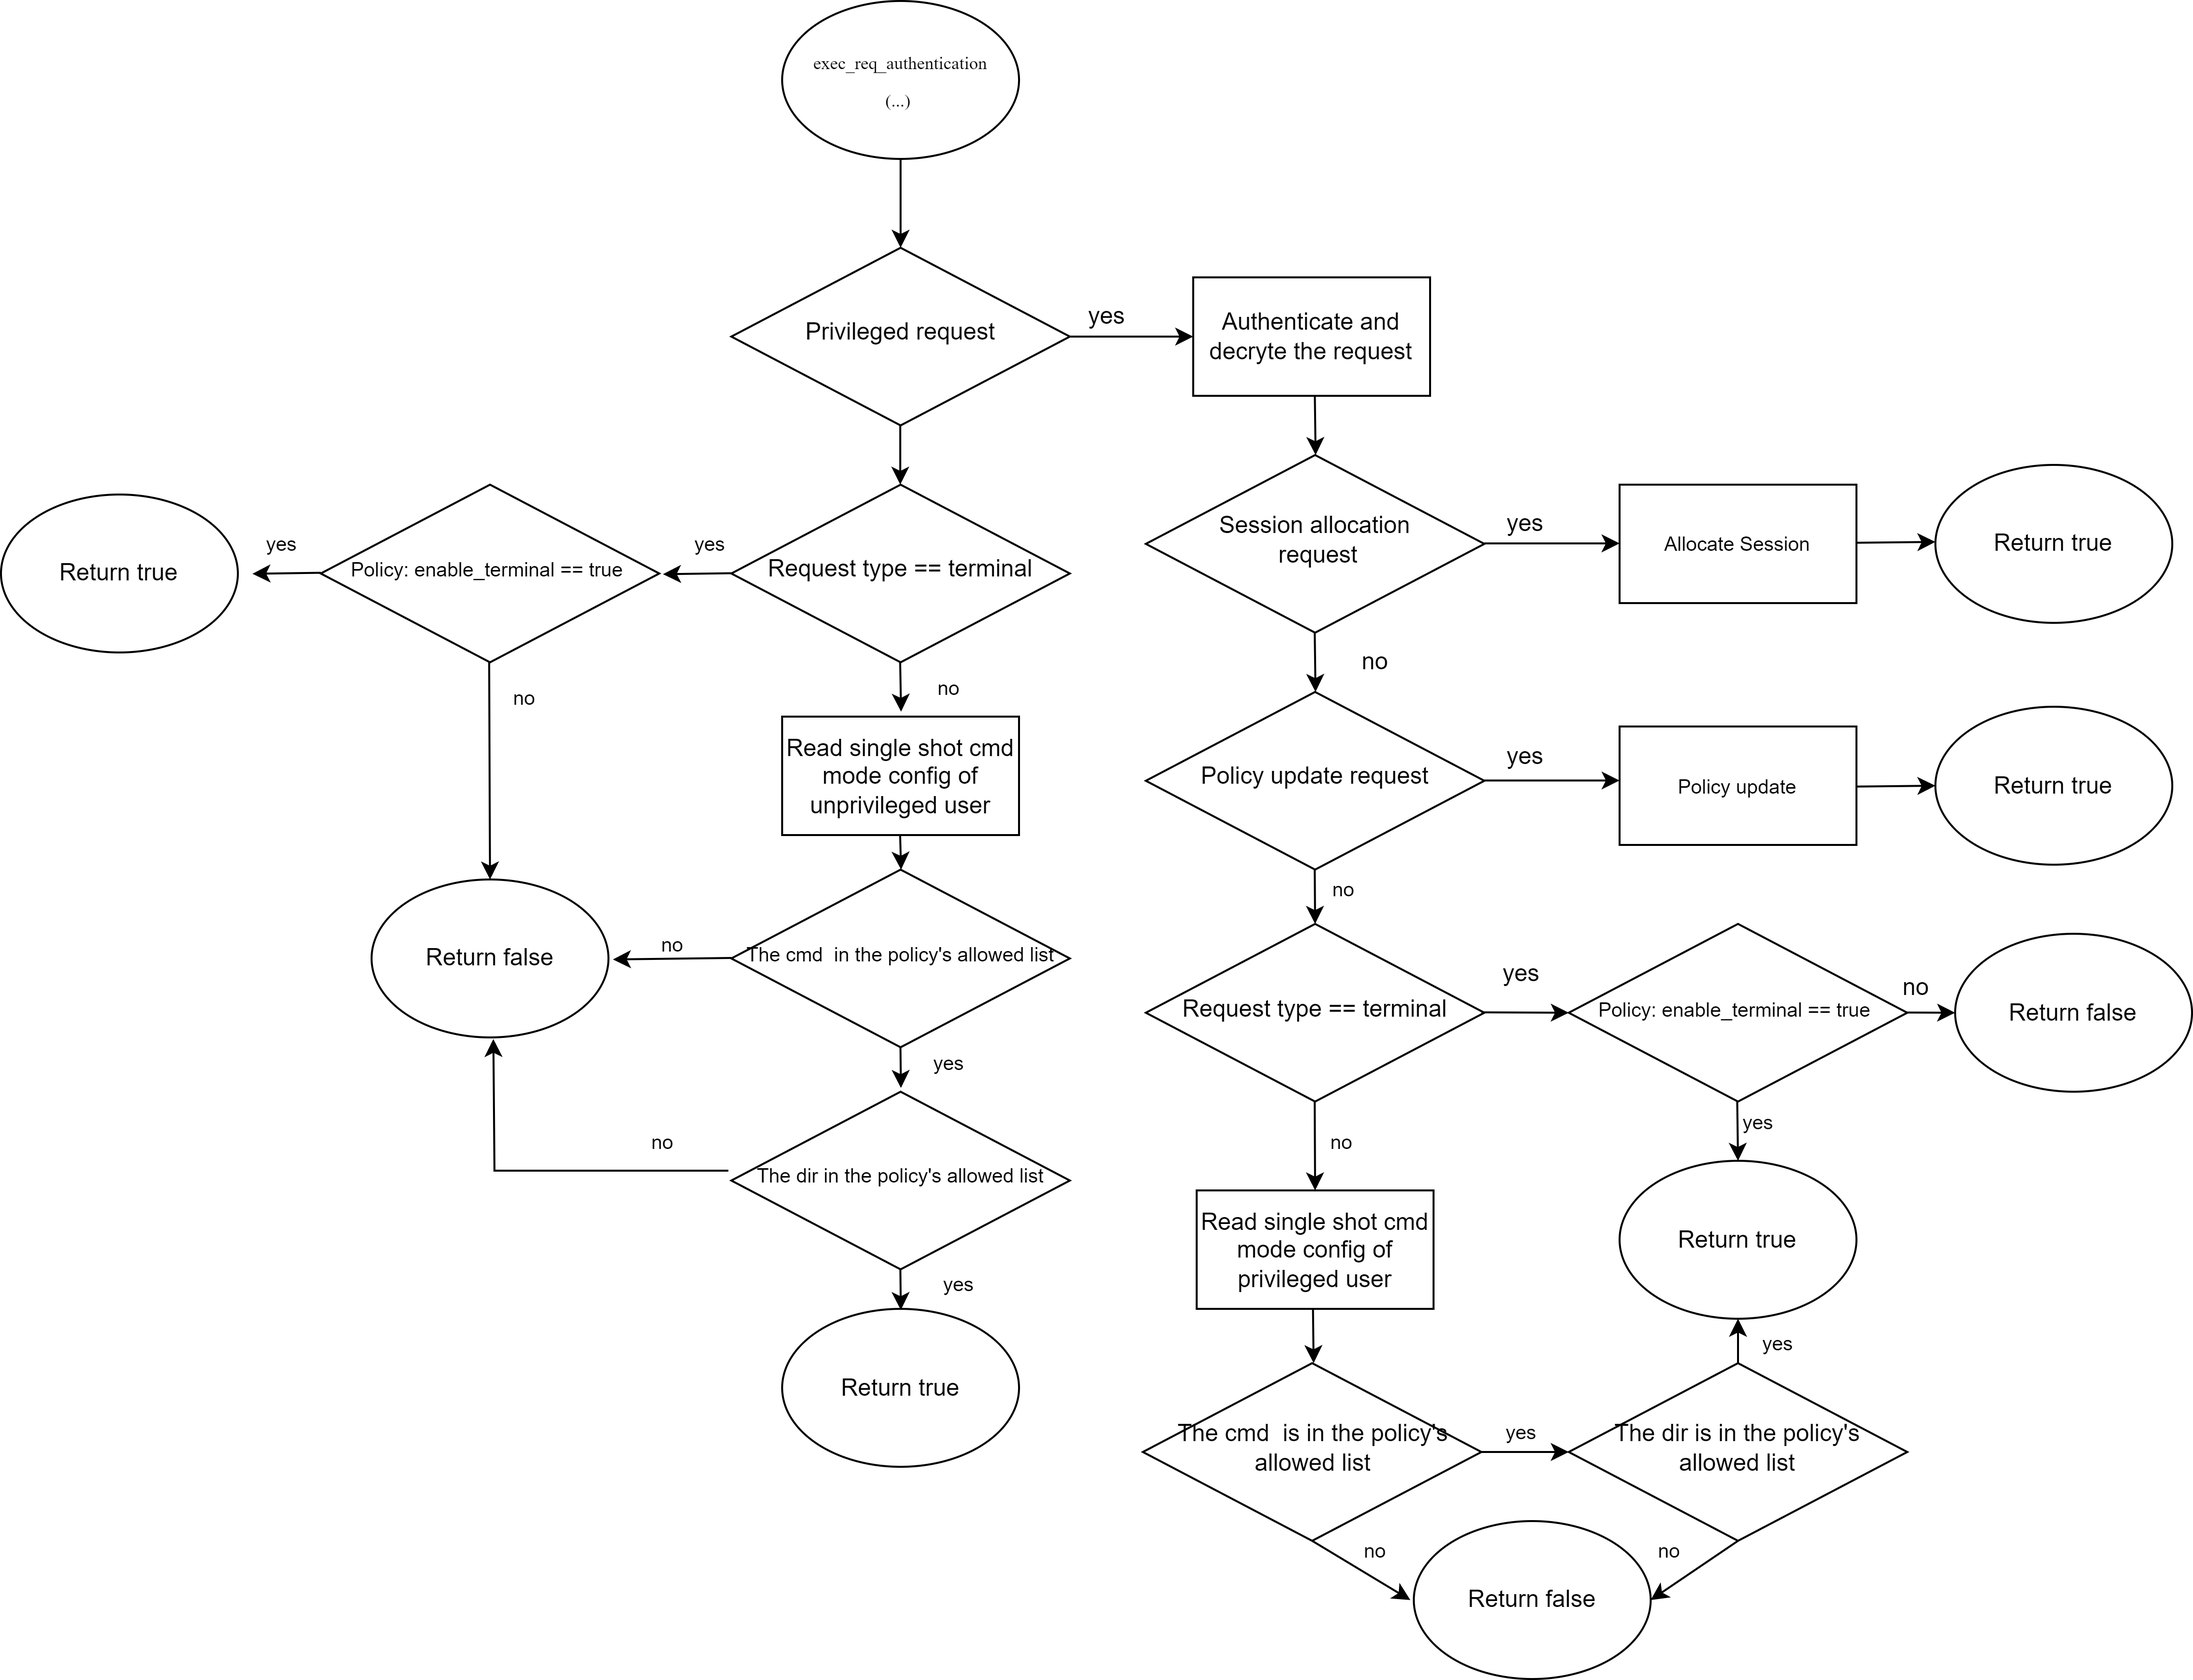
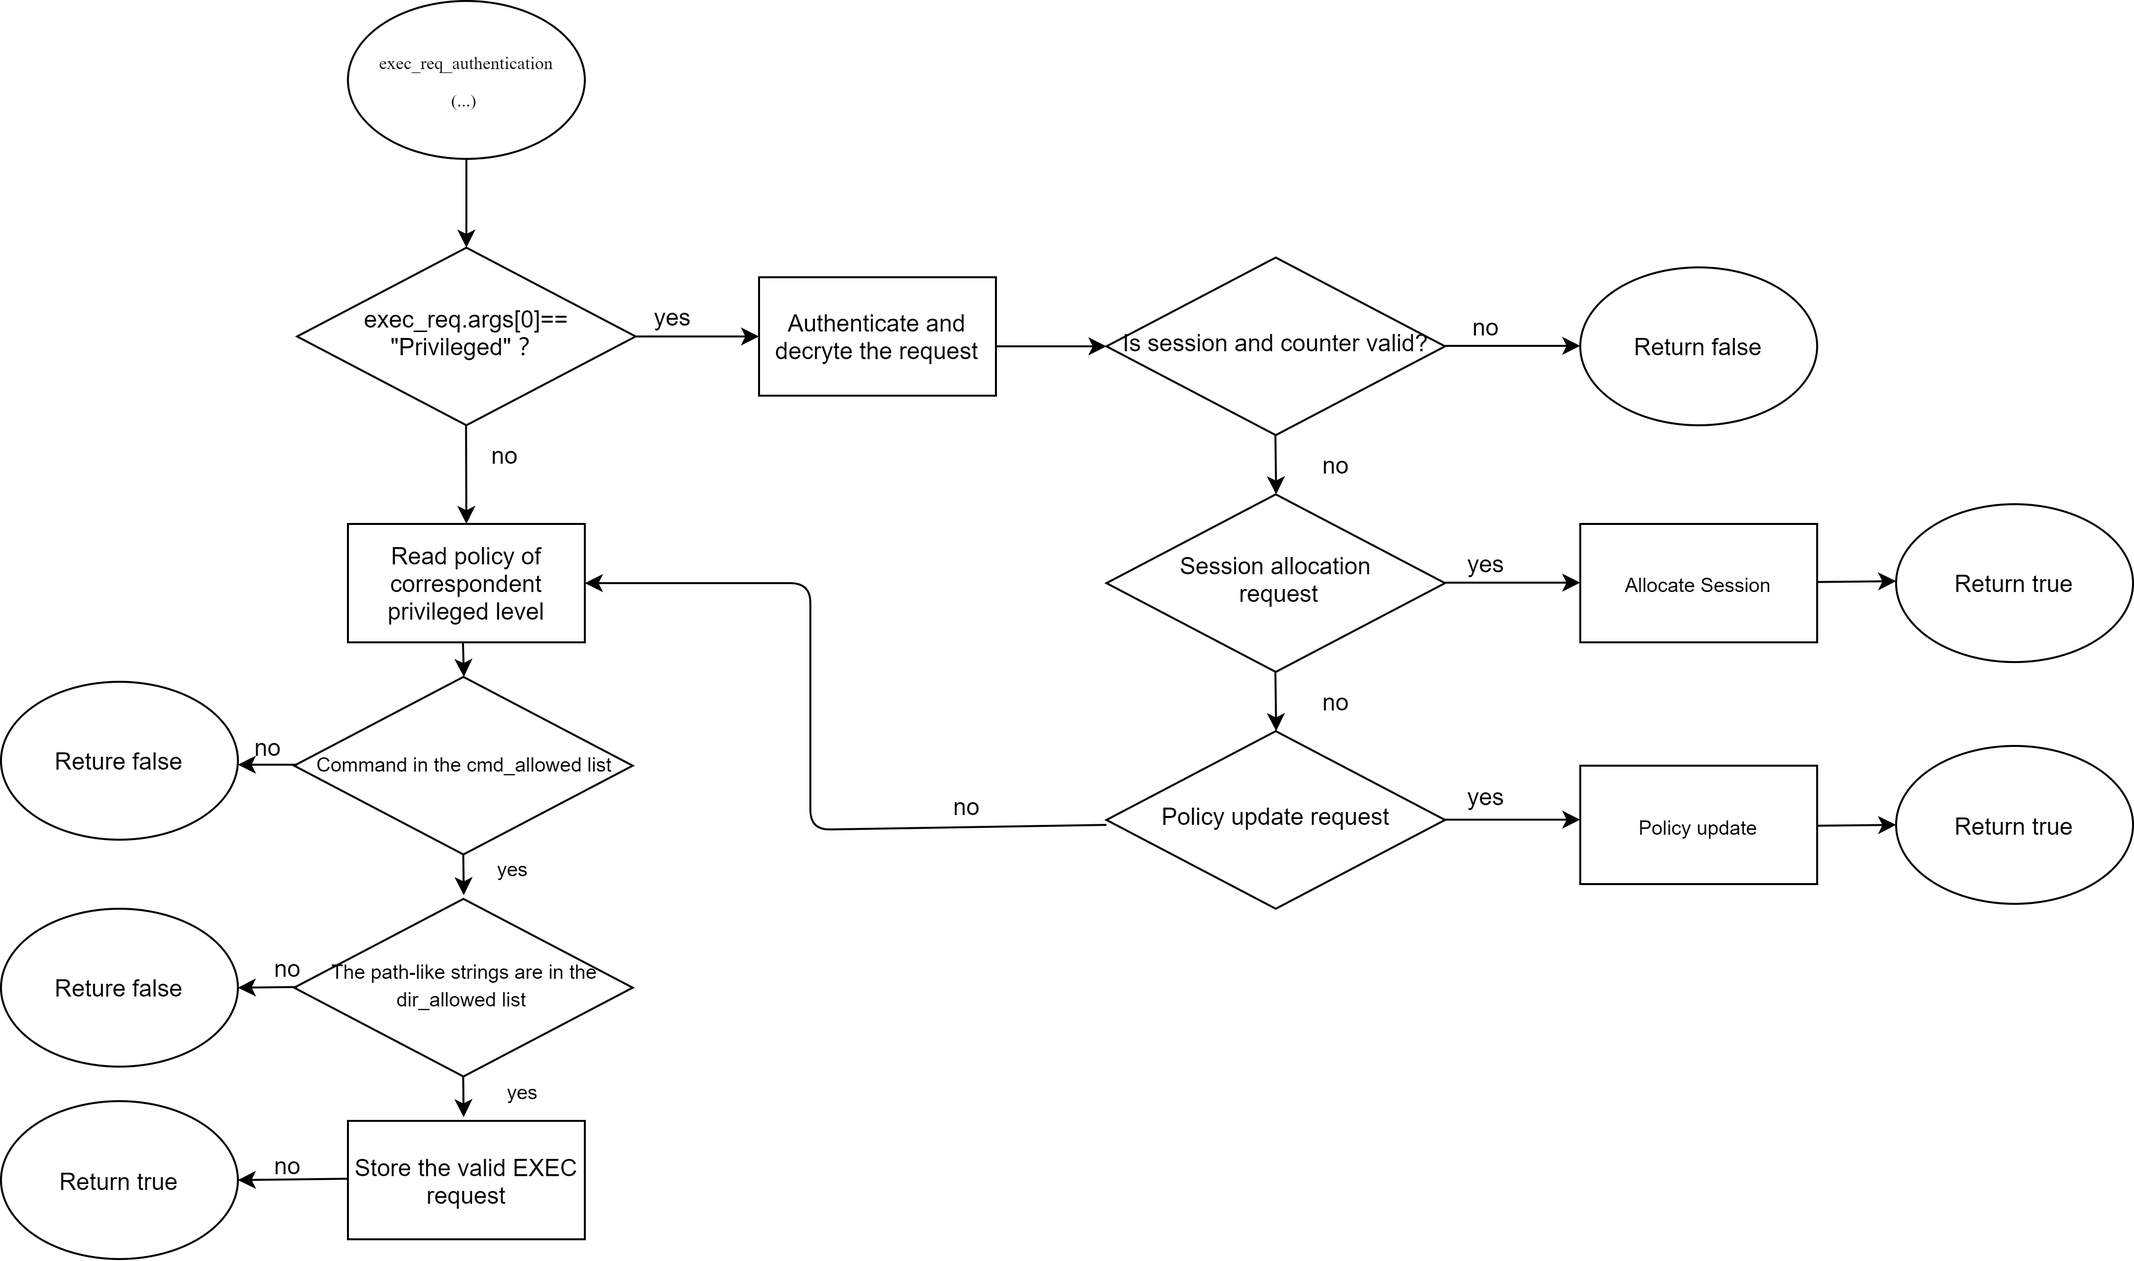
revise exec section in implementation

diff --git a/content/40_implementation.tex b/content/40_implementation.tex
@@ -277,7 +277,7 @@ This section describes how software measurement managers measure data loaded fro
 
 \subsection{Binary Measurement}
 
-\begin{figure}[htp]
+\begin{figure}[!htb]
     \centering
     \includegraphics[width=0.8\textwidth]{images/measure_binary.png}
     \caption[Binary measurement workflow]{Binary measurement workflow}
@@ -297,7 +297,7 @@ The workflow for shared library measurement is depicted in Figure~\ref{fig:measu
 The handler determines whether a file is a shared library by checking its suffix (i.e., .so). If so, the handler notifies the secret manager to initialize a hash for the shared library, which is then stored in a B-tree map. Based on the library's name, the software manager can retrieve and extend the 
 hash from the map.
 
-\begin{figure}[htp]
+\begin{figure}[!htb]
     \centering
     \includegraphics[width=0.8\textwidth]{images/measure_load_shared_libarart.png}
     \caption[Shared library measurement workflow]{Shared library measurement workflow}
@@ -380,16 +380,10 @@ identical. Subsequently, a comparison is made between the measurements stored in
 with those loaded during the initial application startup.
 
 \section{EXEC Checker}
-The Exec checker provides the Quark agent with the API shown in Listing~\ref{lst:exec_Cheker}. It allows the Quark agent to check if an EXEC request is legitimate. It also handles requests from privileged-level users to update enclave policies or assign sessions.
+The Exec checker provides the Quark agent with the API shown in Listing~\ref{lst:exec_Cheker}. This function checks EXEC requests for legitimacy and handles session allocation or  policy update request from privileged users. It returns true if the EXEC request is legitimate and false if not. 
+The execAuthenAcCheckArgs contains the metadata required to create an EXEC process. In particular, args is an array of strings containing the command to be executed and its arguments. 
 
 \begin{lstlisting}[language=rust, caption= API of EXEC checker, label={lst:exec_Cheker}]
-pub struct ExecAthentityAcChekcer {
-    policy: KbsPolicy,
-    pub decryption_key: GenericArray<u8, U32>,
-    pub authenticated_reqs: BTreeMap<String, AuthenticatedExecReq>,
-…
-}
-
 pub struct ExecAuthenAcCheckArgs {
     pub exec_id: String,
     pub args: Vec<String>,
@@ -397,39 +391,21 @@ pub struct ExecAuthenAcCheckArgs {
     pub cwd: String,
     pub req_type: ExecRequestType,
 }
-
 pub fn exec_req_authentication (exec_req: ExecAuthenAcCheckArgs) -> bool
 \end{lstlisting}
 
+The workflow of the function is illustrated in Figure~\ref{fig:exec_req_authentication_flow_chart}. Initially, it determines the privilege level of the request by examining whether the first element of the array matches the keyword "Privileged." If it does, the function validates and decrypts the 
+encrypted payload in the array. Subsequently, it verifies the legitimacy of the request's session and counters. If these components are deemed illegitimate, the function returns false. It then identifies whether the request is a session assignment or policy update request using the methods described 
+in Section~\ref{subsec:design_policy_session_update}. In the case of a typical Linux command, the function checks its legality based on the policy. Specifically, it first confirms if the command is included in the command allowlist. If it is, the function checks if the directory allowlist incorporates the path-like string found in the 
+command's arguments. Notably, for a no-arguments command, the function verifies if the current execution directory of the command is present in the directory allowlist. For non-privileged commands, the function only evaluates their legality based on the policy. If a command meets the policy criteria, 
+the function saves the EXEC request's command and argument in plaintext. The Quark agent can then employ the EXEC ID to retrieve a legitimate EXEC request's metadata and create the corresponding process.
 
-When an EXEC request is received, the Quark agent invokes the exec\_req\_authentication() function. This function accepts the metadata of the EXEC request ExecAuthenAcCheckArgs, and returns a boolean value indicating the request's legitimacy. It returns true if the EXEC request is legitimate and false 
-if not. The ExecAuthenAcCheckArgs contains the necessary metadata for creating an EXEC process. The exec\_id is the id of the EXEC request. The EXEC checker stores the metadata of a legitimate request in the field authenticated\_reqs of AthentityAcChekcer struct. The Quark agent can use the EXEC id to 
-find a legitimate request's metadata in authenticated\_reqs and create the EXEC process. The args contains the command and its arguments that need to be executed. If the command is privileged, the data within args is protected using the frame structure discussed in Section XX\todo{add ref}. Additionally, the
-req\_type specifies the type of request, indicating whether the request is about terminal allocation (terminal mode) or executing a single command (single shot command mode). The workflow of the exec\_req\_authentication function is shown in Figure ~\ref{fig:exec_req_authentication_flow_chart}.
-
-
-\begin{figure}[htp]
+\begin{figure}[!htb]
     \centering
     \includegraphics[width=0.8\textwidth]{images/exec_req_authentication_flow_chart.png}
     \caption[EXEC cheker workflow]{EXEC cheker workflow}
     \label{fig:exec_req_authentication_flow_chart}
 \end{figure}
-
-
-For single-shot commands, the exec\_req\_authentication function utilizes two functions to verify that commands and directories are included in the allowed list as defined by the single command line mode configuration. As shown in Figure 2\todo{add ref}, privileged and unprivileged users have their own single 
-command line mode configuration.
-
-
-\begin{lstlisting}[language=rust, caption= API of EXEC checker, label={lst:exec_Cheker_sighlr}]
-    fn is_path_allowed (cmd: &Vec<String>, allowed_paths: &Vec<String>, cwd: &str) -> bool
-    fn is_cmd_allowed (cmd: &String, allowed_cmd_list: &Vec<String>) ->bool 
-\end{lstlisting}
-    
-
-The is\_cmd\_allowed function verifies that a command is in the command allowlist. On the other hand, the is\_path\_allowed function checks whether the directory in which the command is executed and the directories appearing in the command arguments are in the directory allowlist. It returns true 
-only if both directories are in the allowed list. Otherwise, it returns false.
-
-
 
 \section{STDIO Protection}
 

diff --git a/content/30_design.tex b/content/30_design.tex
@@ -279,6 +279,7 @@ With the session and counter, we avoid the following two reply attacks. First, t
 request is less than the current counter value recorded in the enclave for the requested session ID. In this case, the enclave will refuse to execute it.
 
 \subsection{Session Assignment and Policy Updates}
+\label{subsec:design_policy_session_update}
 \begin{figure}[!htb]
     \centering
     
